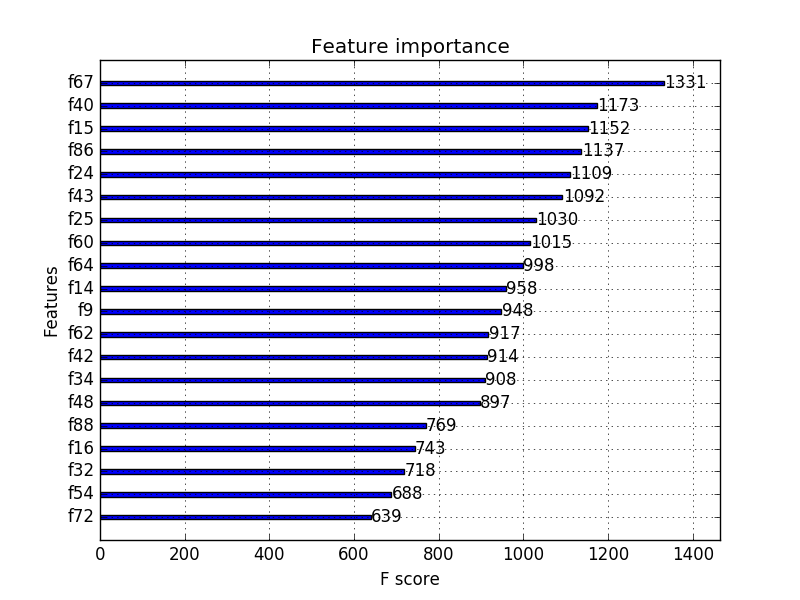
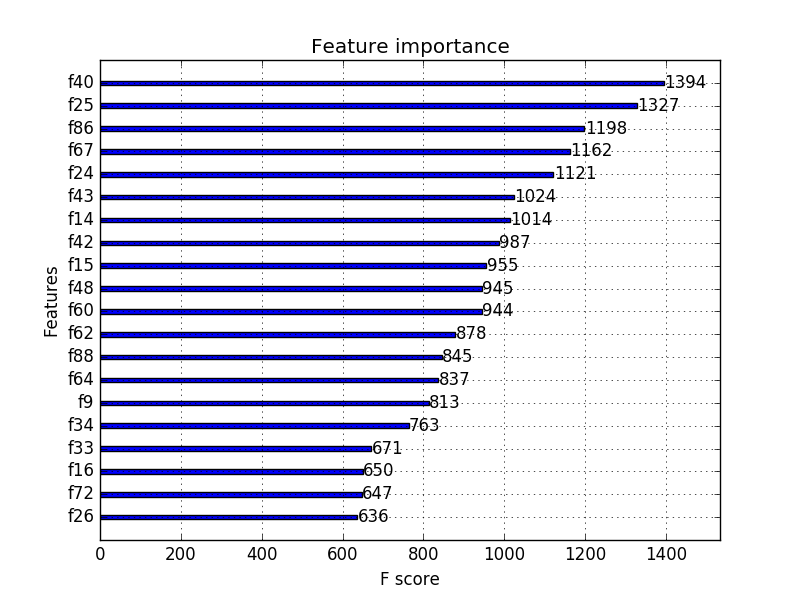
normalized

diff --git a/multiclass_classification/train.py b/multiclass_classification/train.py
@@ -16,20 +16,34 @@ from sklearn.preprocessing import label_binarize
 from sklearn.multiclass import OneVsRestClassifier
 from scipy import interp
 
+def normalize(lst):
+    norm = lst
+    for i in range(lst.shape[0]):
+        norm[i] = [(float(2*j)-max(lst[i])-min(lst[i]))/(max(lst[i])-min(lst[i])) for j in lst[i]]
+        if (i%500 == 0):    
+    	    print(" %.4f done" % (float(i/lst.shape[0])))
+    return norm
+
+
 
 # label need to be 0 to num_class -1
 data = np.loadtxt('/home/ubuntu/train.csv',skiprows=1, delimiter=',',
         converters={0: lambda x:int('0'), 94: lambda x:int(x[6:])-1})
 sz = data.shape
 
+
+
 np.random.shuffle(data)
 train = data[:int(sz[0] * 0.9), :]
 test = data[int(sz[0] * 0.9):, :]
 
 train_X = train[:, :93]
+train_X = normalize(train_X)
 train_Y = train[:, 94]
 
 test_X = test[:, :93]
+test_X = normalize(test_X)
+
 test_Y = test[:, 94]
 test_Yb = label_binarize(test_Y,classes=range(0,9))
 
@@ -56,8 +70,8 @@ model.fit(train_X,train_Y)
 # get prediction
 #pred = bst.predict(xg_test)
 
-#res = model.predict(test_X)
-#pred = model.predict_proba(test_X)
+res = model.predict(test_X)
+pred = model.predict_proba(test_X)
 
 #print(model.booster().get_score(importance_type='weight'))
 #print(model.booster().plot_importance(model))
@@ -129,9 +143,16 @@ def plot(test_Yb, pred, param, filename="otto"):
     plt.savefig(filename)
 
 
-#error_rate = np.sum(res != test_Y) / test_Y.shape[0]
-#print('Test error using softmax = {}'.format(error_rate))
+error_rate = np.sum(res != test_Y) / test_Y.shape[0]
+print('Test error using softmax = {}'.format(error_rate))
 
+plt.figure()
+xgb.plot_importance(model,max_num_features=20)
+
+plt.savefig("imp.png")
+
+
+'''
 # do the same thing again, but output probabilities
 param['objective'] = 'multi:softprob'
 bst = xgb.train(param, xg_train, num_round, watchlist)
@@ -143,9 +164,7 @@ pred_label = np.argmax(pred_prob, axis=1)
 plot(test_Yb, pred_prob, param, "otto")
 print(bst.get_score())
 #print(xgb.plot_importance(bst))
-plt.figure()
-xgb.plot_importance(model,max_num_features=20)
-plt.savefig("imp.png")
 
 #error_rate = np.sum(pred != test_Y) / test_Y.shape[0]
 #print('Test error using softprob = {}'.format(error_rate))
+'''
